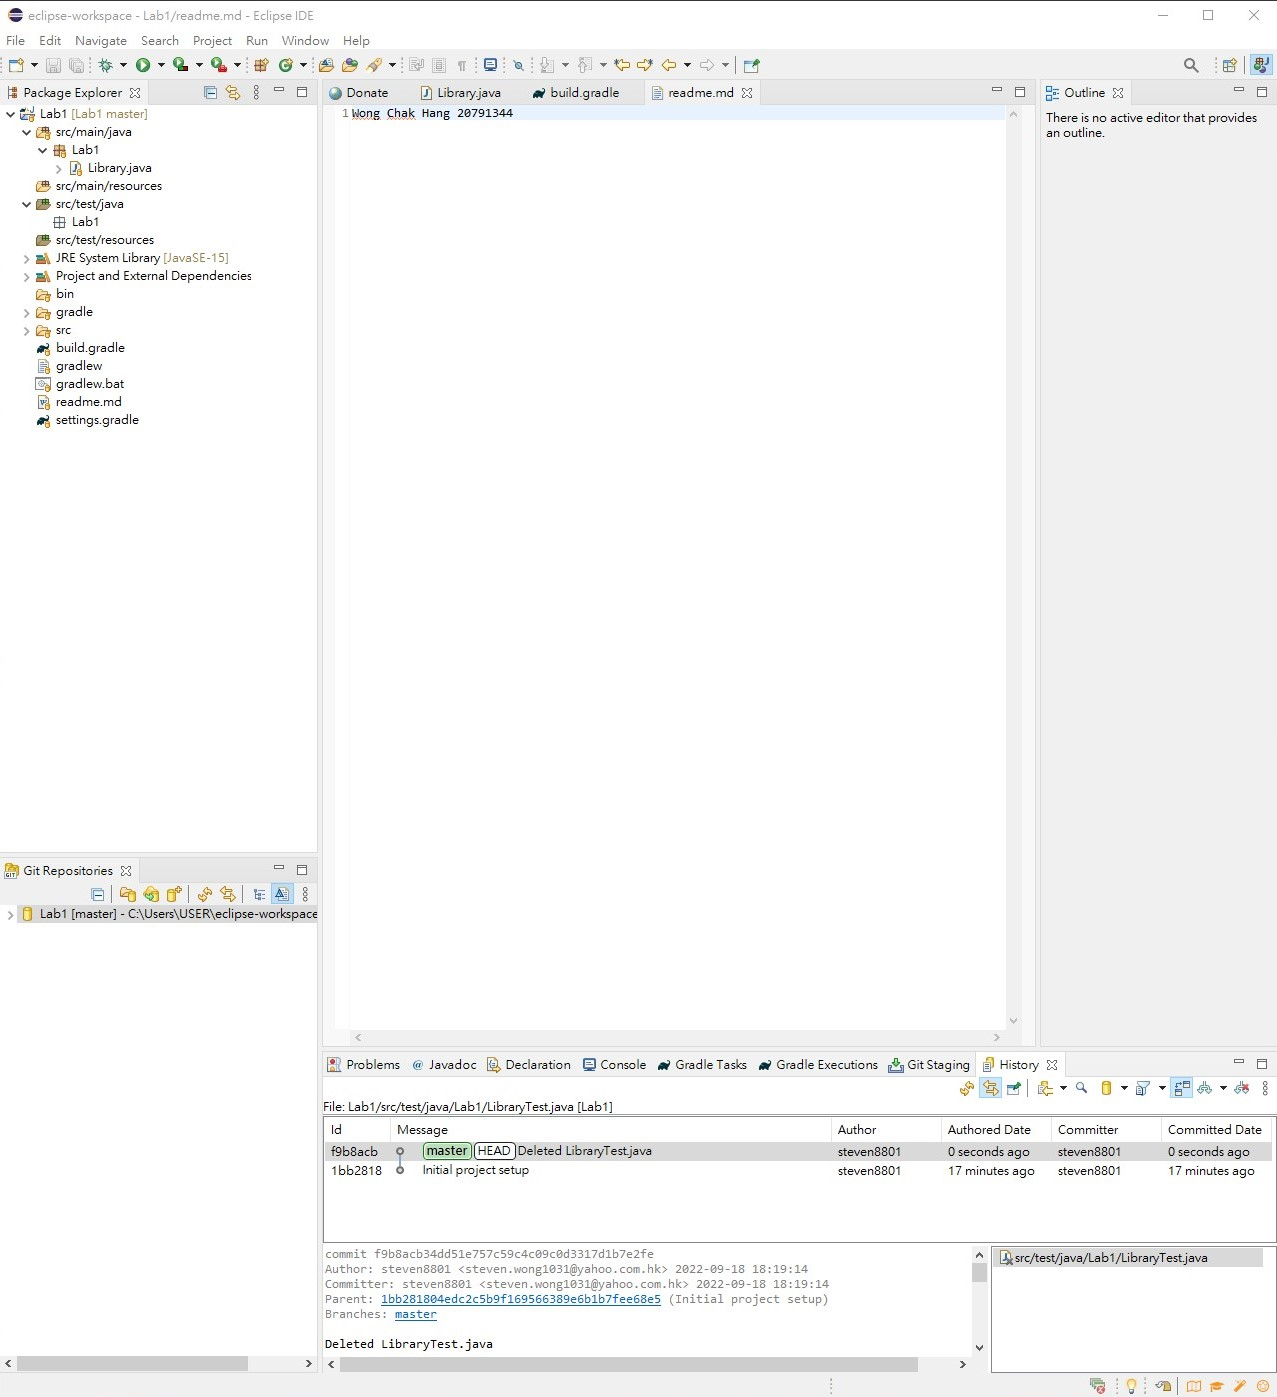
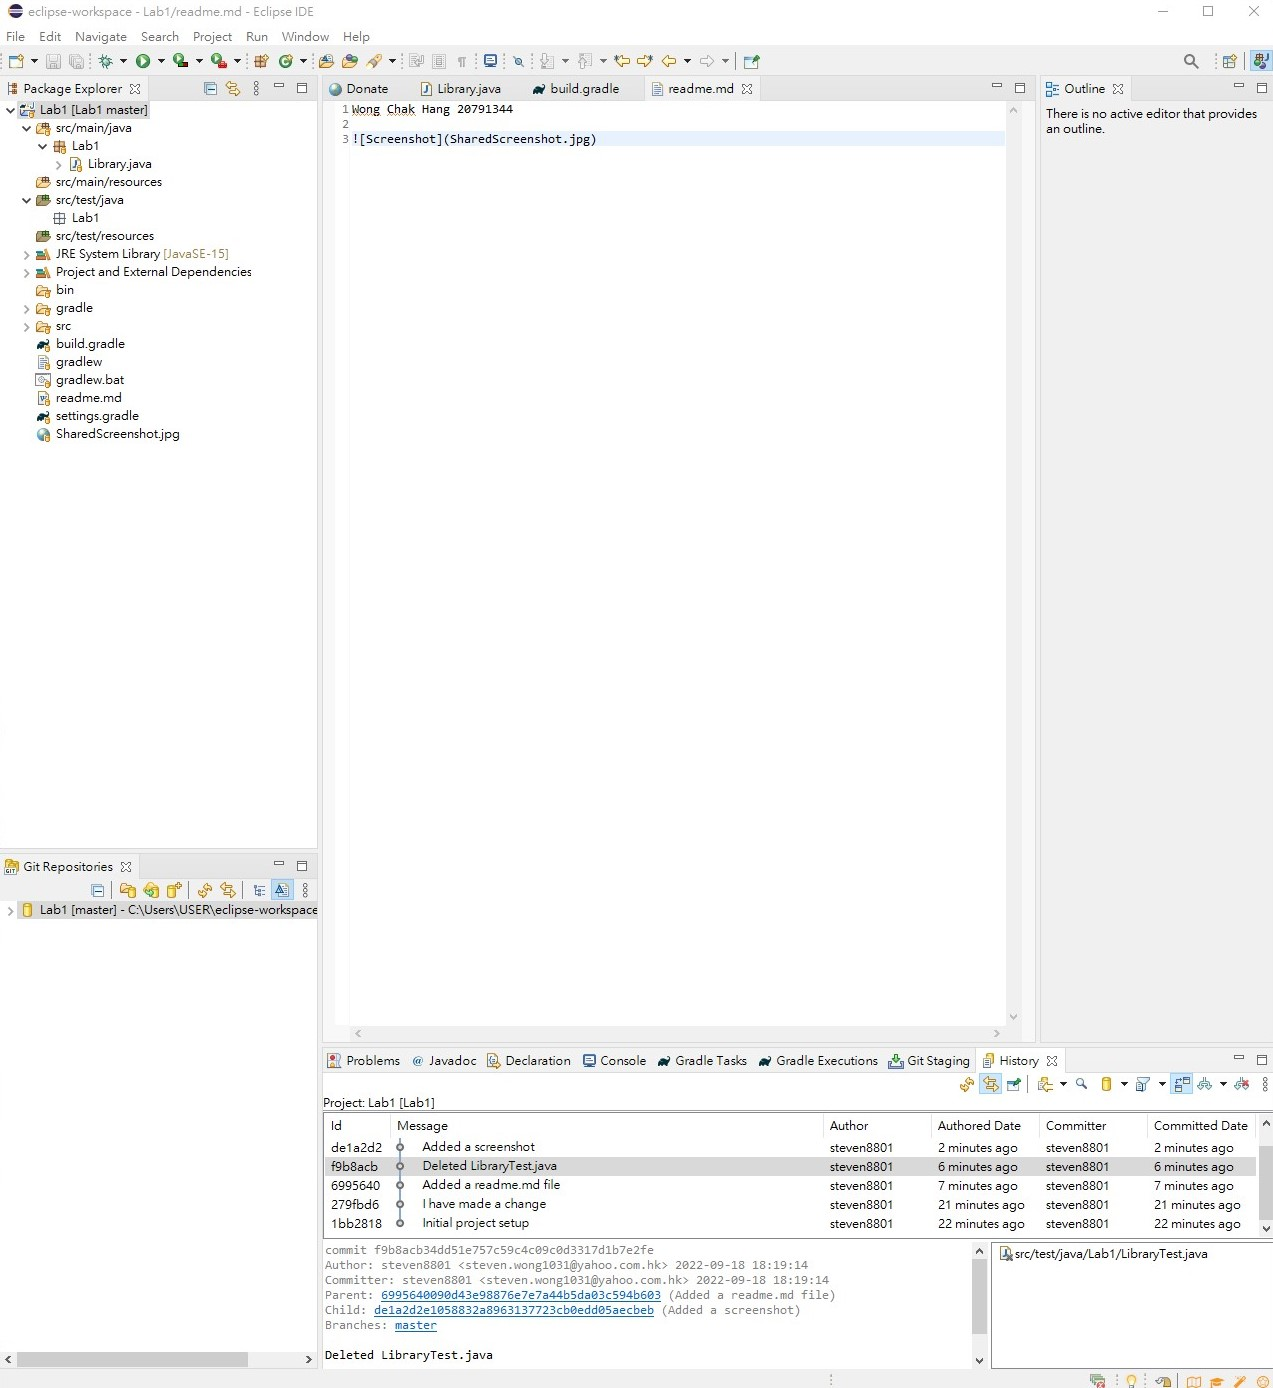
Changed the wordings to fit the submission

diff --git a/readme.md b/readme.md
@@ -1,3 +1,5 @@
-Wong Chak Hang 20791344
+NAme: Wong Chak Hang
+
+ID: 20791344
 
 ![Screenshot](SharedScreenshot.jpg)
